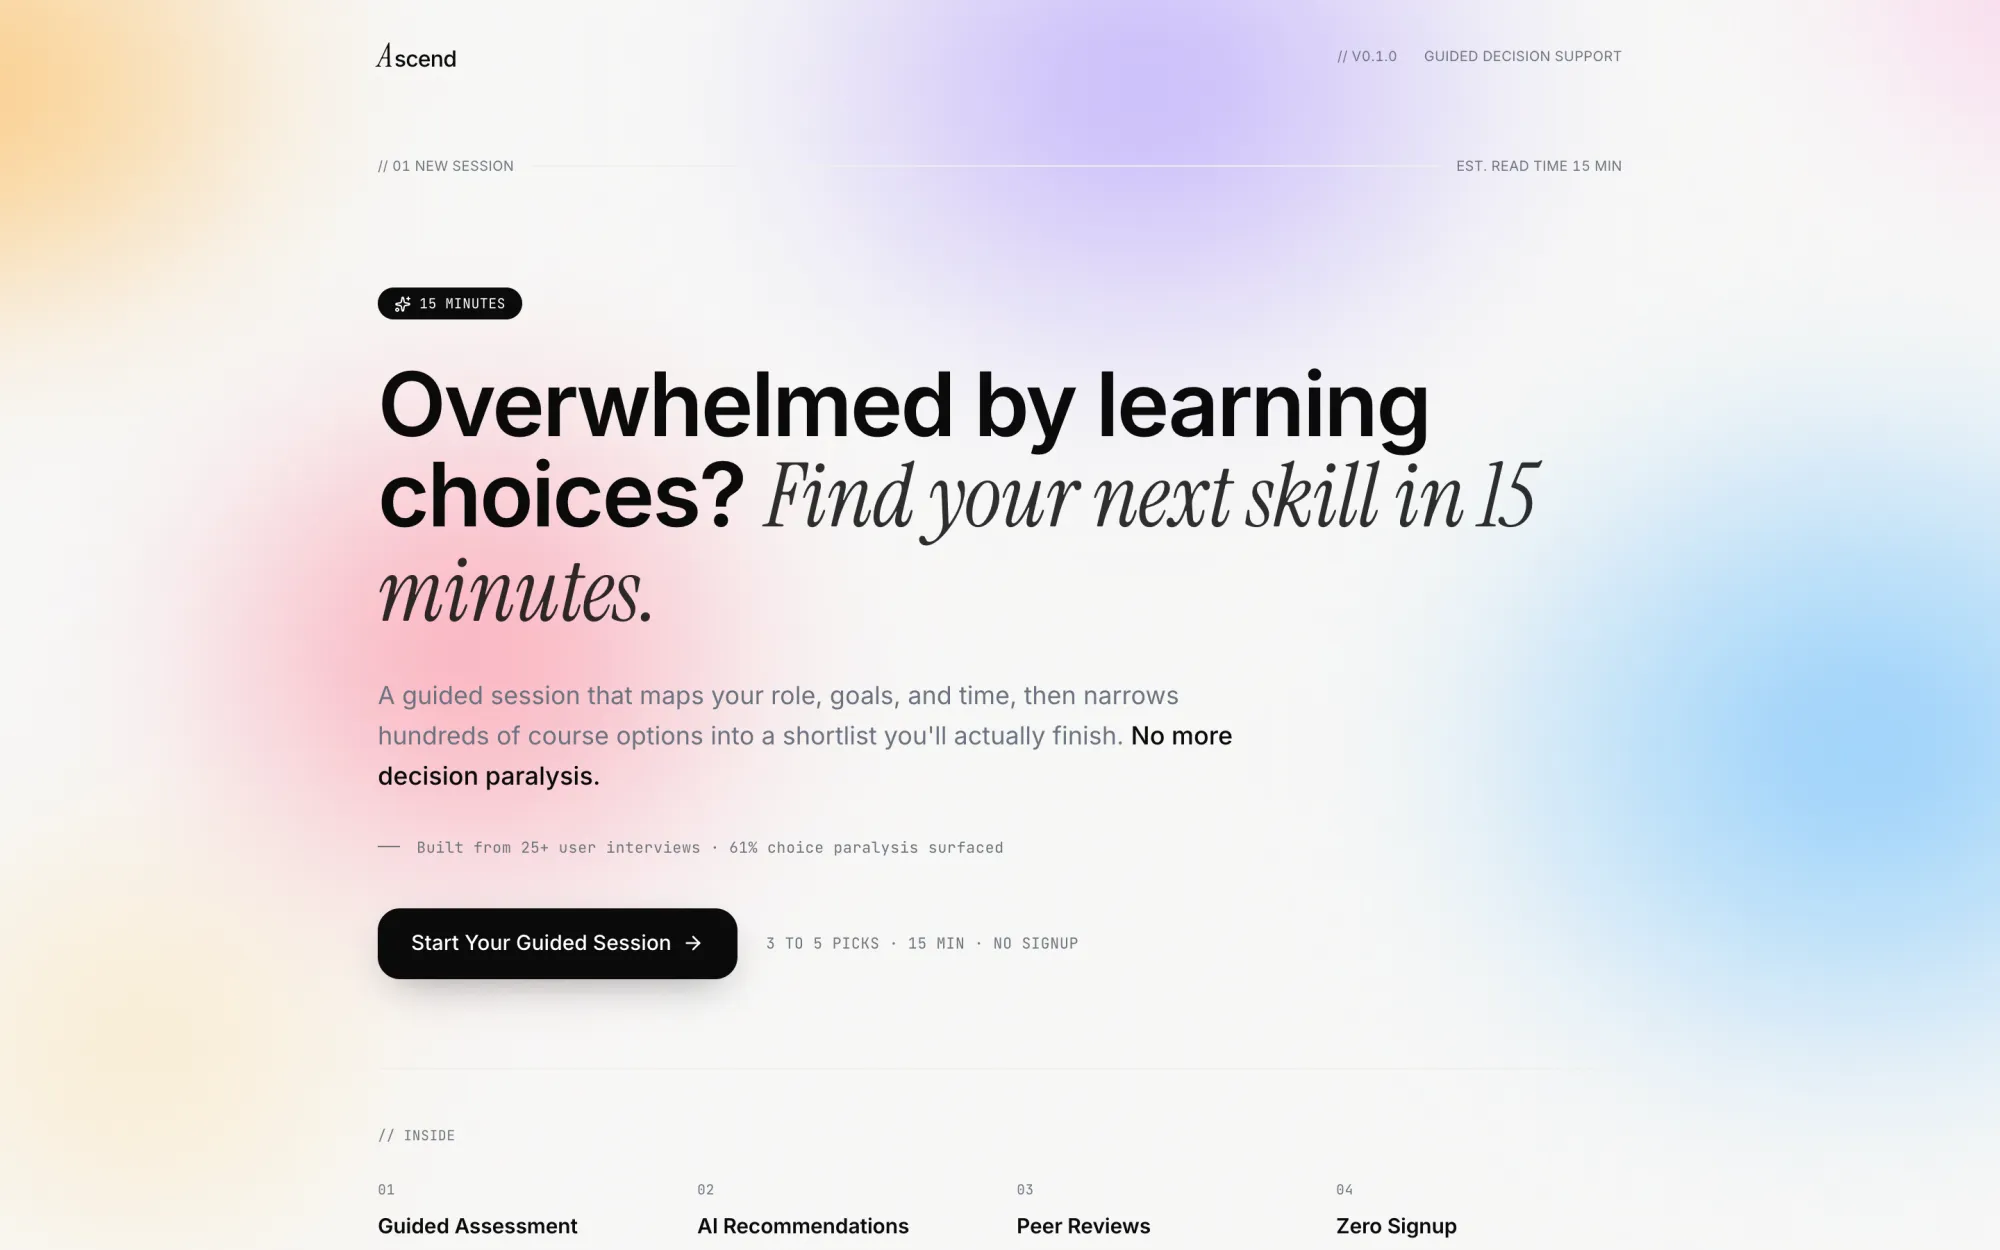
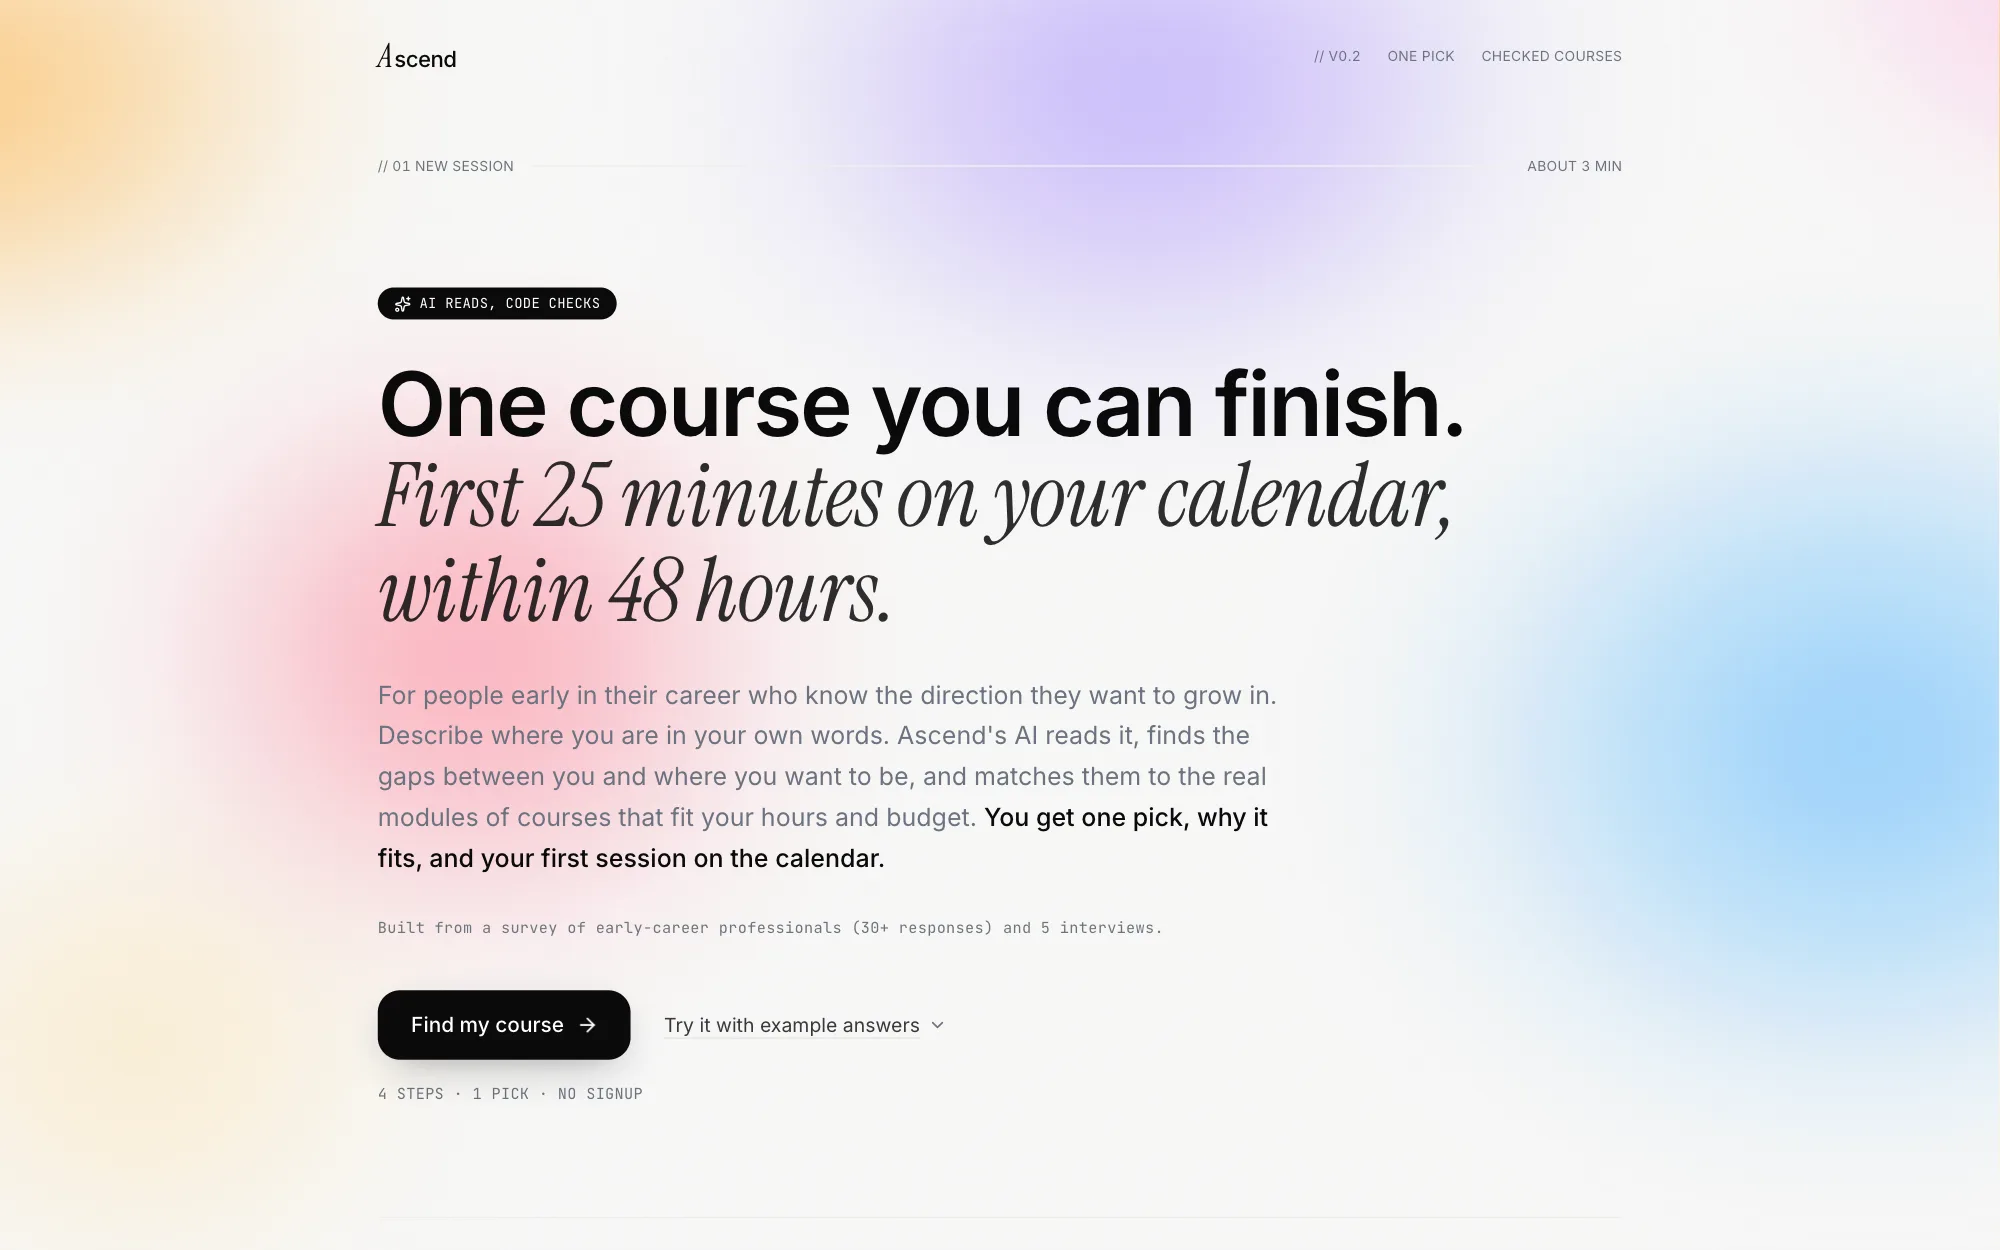
Ascend: the v0.2 story, with the AI's work on the plate
- Line: say where you are in your own words; the AI maps your gaps to real
  course modules and picks one course you can finish.
- Plate: the live v0.2 landing, plus a magnified Rules / AI / Checks ledger
  from a real Claude pick (read 46 words, found 5 gaps, mapped 15 modules
  across 4 courses, chose 1; 0 invented courses or modules).
- Story: rules keep it honest and the AI does the reading; Claude reads,
  maps, judges and tailors while code checks every answer. Research line
  corrected to a survey with 30+ responses and 5 interviews.

diff --git a/src/content/projects.ts b/src/content/projects.ts
@@ -145,24 +145,24 @@ export const projects: Project[] = [
     name: 'Ascend',
     lane: 'Solo',
     year: '2025',
-    line: 'Six questions, then a short list of courses you’re likely to finish, and why each one.',
+    line: 'Say where you are in your own words. The AI maps your gaps to real course modules and picks one course you can finish.',
     url: 'https://ascendmvp.vercel.app',
     kind: 'web',
     image: '/work/ascend.webp',
-    alt: 'Ascend: Overwhelmed by learning choices? Find your next skill in 15 minutes.',
+    alt: 'Ascend: One course you can finish. First 25 minutes on your calendar, within 48 hours.',
     detail: {
       src: '/work/ascend-detail.webp',
-      alt: 'Step 1 of 6: Where are you right now?',
-      ratio: 2.7,
+      alt: 'Rules: 69 checked, 4 to the AI. AI: read your 46 words, found 5 gaps, mapped 15 modules across 4 courses, chose 1, by Claude Opus 5.5. Checks: 0 invented courses, 0 invented modules.',
+      ratio: 1.95,
     },
     tint: ['#F1EEF4', '#141218'],
     story: {
       problem:
         'Surveyed early-career learners first: 61% named choice overload, 52% feared wasting money on the wrong course, 87% rated peer proof as decisive.',
-      call: 'A narrowing machine, not another catalog. RICE put the guided assessment and peer reviews in the MVP and pushed community features out.',
+      call: 'Rules keep it honest; the AI does the reading. Code checks 69 verified courses against your hours, level and budget, and the AI only chooses among what passes.',
       build:
-        'An LLM ranks 64 curated courses against six answers. Malformed output is retried once; any failure falls back to a deterministic scorer, so it never errors or hangs.',
-      result: 'My graduation project at the NextLeap fellowship: built in four days, after 25+ user interviews, and still live.',
+        'Claude reads your situation, maps your gaps to real module names, judges the courses you already have open and tailors each week to your job. Code checks every answer, so no invented course, module or price gets through.',
+      result: 'My graduation project at the NextLeap fellowship, from a survey with 30+ responses and 5 interviews. Rebuilt in 2026 so the AI shows its work on every pick.',
     },
   },
 ]
